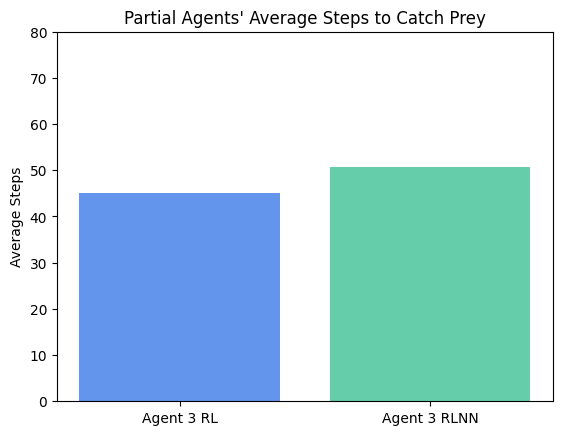
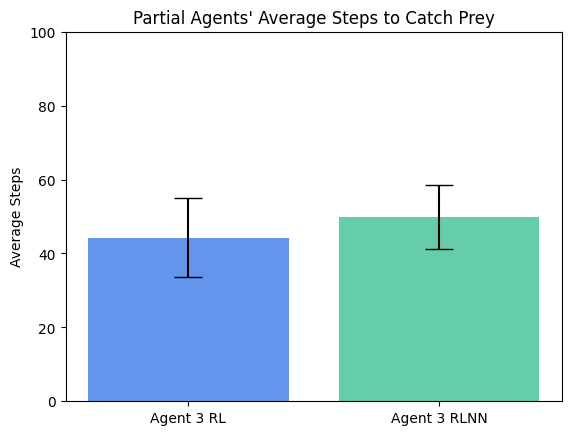
stats for agents

diff --git a/simulation_statistics.py b/simulation_statistics.py
@@ -27,7 +27,7 @@ def agent1(num_simulations, nodes=50):
     success = wins/(len(agent_success))
     print(
         f"Agent1: Wins: {wins}\tLosses: {losses}\tTimeouts: {timeouts}\tSuccess Rate: {round(success*100,2)}%")
-    return wins, losses, timeouts, round(success*100, 2), step_counts
+    return wins, losses, timeouts, round(success*100, 2), round(sum(step_counts)/len(step_counts), 2)
 
 
 def agent2(num_simulations, nodes=50):
@@ -56,7 +56,7 @@ def agent2(num_simulations, nodes=50):
     success = wins/(len(agent_success))
     print(
         f"Agent2: Wins: {wins}\tLosses: {losses}\tTimeouts: {timeouts}\tSuccess Rate: {round(success*100,2)}%")
-    return wins, losses, timeouts, round(success*100, 2), step_counts
+    return wins, losses, timeouts, round(success*100, 2), round(sum(step_counts)/len(step_counts), 2)
 
 
 def agent3(num_simulations, nodes=50):
@@ -89,7 +89,7 @@ def agent3(num_simulations, nodes=50):
     success = wins/(len(agent_success))
     print(
         f"Agent3: Wins: {wins}\tLosses: {losses}\tTimeouts: {timeouts}\tSuccess Rate: {round(success*100,2)}%")
-    return wins, losses, timeouts, round(success*100, 2), found_prey/num_simulations, step_counts
+    return wins, losses, timeouts, round(success*100, 2), found_prey/num_simulations, round(sum(step_counts)/len(step_counts), 2)
 
 
 def agent4(num_simulations, nodes=50):
@@ -122,7 +122,7 @@ def agent4(num_simulations, nodes=50):
     success = wins/(len(agent_success))
     print(
         f"Agent4: Wins: {wins}\tLosses: {losses}\tTimeouts: {timeouts}\tSuccess Rate: {round(success*100,2)}%")
-    return wins, losses, timeouts, round(success*100, 2), found_prey/num_simulations, step_counts
+    return wins, losses, timeouts, round(success*100, 2), found_prey/num_simulations, round(sum(step_counts)/len(step_counts), 2)
 
 
 def agent1rl(num_simulations, nodes=50):
@@ -151,7 +151,7 @@ def agent1rl(num_simulations, nodes=50):
     success = wins/(len(agent_success))
     print(
         f"Agent1RL: Wins: {wins}\tLosses: {losses}\tTimeouts: {timeouts}\tSuccess Rate: {round(success*100,2)}%")
-    return wins, losses, timeouts, round(success*100, 2), step_counts
+    return wins, losses, timeouts, round(success*100, 2), round(sum(step_counts)/len(step_counts), 2)
 
 
 def agent1rlnn(num_simulations, nodes=50):
@@ -180,7 +180,7 @@ def agent1rlnn(num_simulations, nodes=50):
     success = wins/(len(agent_success))
     print(
         f"Agent1RLNN: Wins: {wins}\tLosses: {losses}\tTimeouts: {timeouts}\tSuccess Rate: {round(success*100,2)}%")
-    return wins, losses, timeouts, round(success*100, 2), step_counts
+    return wins, losses, timeouts, round(success*100, 2), round(sum(step_counts)/len(step_counts), 2)
 
 
 def agent3rl(num_simulations, nodes=50):
@@ -209,7 +209,7 @@ def agent3rl(num_simulations, nodes=50):
     success = wins/(len(agent_success))
     print(
         f"Agent3RL: Wins: {wins}\tLosses: {losses}\tTimeouts: {timeouts}\tSuccess Rate: {round(success*100,2)}%")
-    return wins, losses, timeouts, round(success*100, 2), step_counts
+    return wins, losses, timeouts, round(success*100, 2), round(sum(step_counts)/len(step_counts), 2)
 
 
 def agent3rlnn(num_simulations, nodes=50):
@@ -238,4 +238,4 @@ def agent3rlnn(num_simulations, nodes=50):
     success = wins/(len(agent_success))
     print(
         f"Agent3RLNN: Wins: {wins}\tLosses: {losses}\tTimeouts: {timeouts}\tSuccess Rate: {round(success*100,2)}%")
-    return wins, losses, timeouts, round(success*100, 2), step_counts
+    return wins, losses, timeouts, round(success*100, 2), round(sum(step_counts)/len(step_counts), 2)

diff --git a/main.py b/main.py
@@ -68,7 +68,7 @@ def labreport_simulation_statistics_agent1():
         losses.append(simulation_losses)
         timeouts.append(simulation_timeouts)
         success_rates.append(simulation_success)
-        step_counts.extend(simulation_steps)
+        step_counts.append(simulation_steps)
 
     agent_data = get_overall_simulation_statistics(
         wins, losses, timeouts, success_rates, step_counts)
@@ -96,7 +96,7 @@ def labreport_simulation_statistics_agent2():
         losses.append(simulation_losses)
         timeouts.append(simulation_timeouts)
         success_rates.append(simulation_success)
-        step_counts.extend(simulation_steps)
+        step_counts.append(simulation_steps)
 
     agent_data = get_overall_simulation_statistics(
         wins, losses, timeouts, success_rates, step_counts)
@@ -126,7 +126,7 @@ def labreport_simulation_statistics_agent3():
         timeouts.append(simulation_timeouts)
         success_rates.append(simulation_success)
         found_prey.append(simulation_found_prey)
-        step_counts.extend(simulation_steps)
+        step_counts.append(simulation_steps)
 
     agent_data = get_overall_simulation_statistics(
         wins, losses, timeouts, success_rates, step_counts, found_prey=found_prey)
@@ -156,7 +156,7 @@ def labreport_simulation_statistics_agent4():
         timeouts.append(simulation_timeouts)
         success_rates.append(simulation_success)
         found_prey.append(simulation_found_prey)
-        step_counts.extend(simulation_steps)
+        step_counts.append(simulation_steps)
 
     agent_data = get_overall_simulation_statistics(
         wins, losses, timeouts, success_rates, step_counts, found_prey=found_prey)
@@ -184,7 +184,7 @@ def labreport_simulation_statistics_agent1_rl():
         losses.append(simulation_losses)
         timeouts.append(simulation_timeouts)
         success_rates.append(simulation_success)
-        step_counts.extend(simulation_steps)
+        step_counts.append(simulation_steps)
 
     agent_data = get_overall_simulation_statistics(
         wins, losses, timeouts, success_rates, step_counts)
@@ -213,7 +213,7 @@ def labreport_simulation_statistics_agent1_rl_nn():
         losses.append(simulation_losses)
         timeouts.append(simulation_timeouts)
         success_rates.append(simulation_success)
-        step_counts.extend(simulation_steps)
+        step_counts.append(simulation_steps)
 
     agent_data = get_overall_simulation_statistics(
         wins, losses, timeouts, success_rates, step_counts)
@@ -241,7 +241,7 @@ def labreport_simulation_statistics_agent3_rl():
         losses.append(simulation_losses)
         timeouts.append(simulation_timeouts)
         success_rates.append(simulation_success)
-        step_counts.extend(simulation_steps)
+        step_counts.append(simulation_steps)
 
     agent_data = get_overall_simulation_statistics(
         wins, losses, timeouts, success_rates, step_counts)
@@ -270,10 +270,10 @@ def labreport_simulation_statistics_agent3_rl_nn():
         losses.append(simulation_losses)
         timeouts.append(simulation_timeouts)
         success_rates.append(simulation_success)
-        step_counts.extend(simulation_steps)
+        step_counts.append(simulation_steps)
 
     agent_data = get_overall_simulation_statistics(
-        wins, losses, timeouts, success_rates, simulation_steps)
+        wins, losses, timeouts, success_rates, step_counts)
     save_simulation_statistics("utility_partial", "agent3rlnn", agent_data)
 
     print(

diff --git a/visualize_statistics.py b/visualize_statistics.py
@@ -96,13 +96,13 @@ def visualize_step_counts(dirname, filename):
               "cadetblue", "lightslategrey"]
 
     _, axes = plt.subplots()
-    axes.bar(x_pos, means, color=colors,
+    axes.bar(x_pos, means, color=colors, yerr=stds,
              align='center', ecolor='black', capsize=10)
 
     plt.title(f'{setting.title()} Agents\' Average Steps to Catch Prey')
     axes.set_xticks(x_pos)
     axes.set_xticklabels(agents)
-    plt.gca().set_ylim(bottom=0, top=80)
+    plt.gca().set_ylim(bottom=0, top=100)
     plt.ylabel('Average Steps')
 
     # save the bar graph
